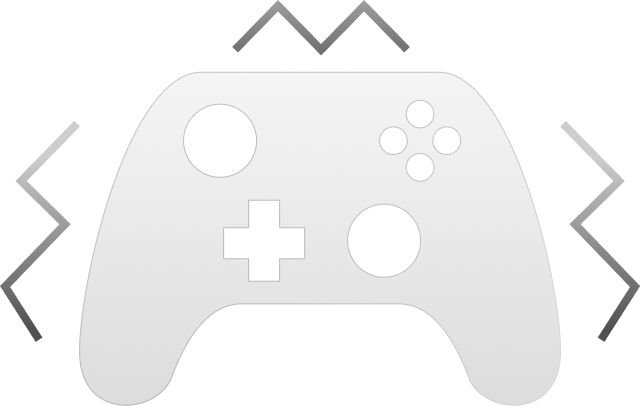
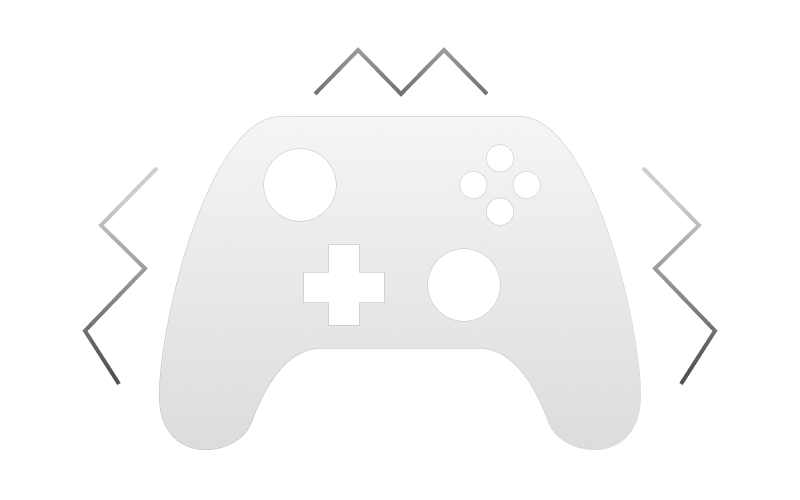
Fixed missing caorusel dot and made vibration image smaller

diff --git a/index.html b/index.html
@@ -169,6 +169,14 @@
 										aria-selected="false"
 										aria-label="Go to slide 3"
 									></button>
+									<button
+										class="carousel-dot"
+										type="button"
+										data-carousel-dot="3"
+										role="tab"
+										aria-selected="false"
+										aria-label="Go to slide 3"
+									></button>
 								</div>
 								<button
 									class="carousel-btn carousel-btn-next"
